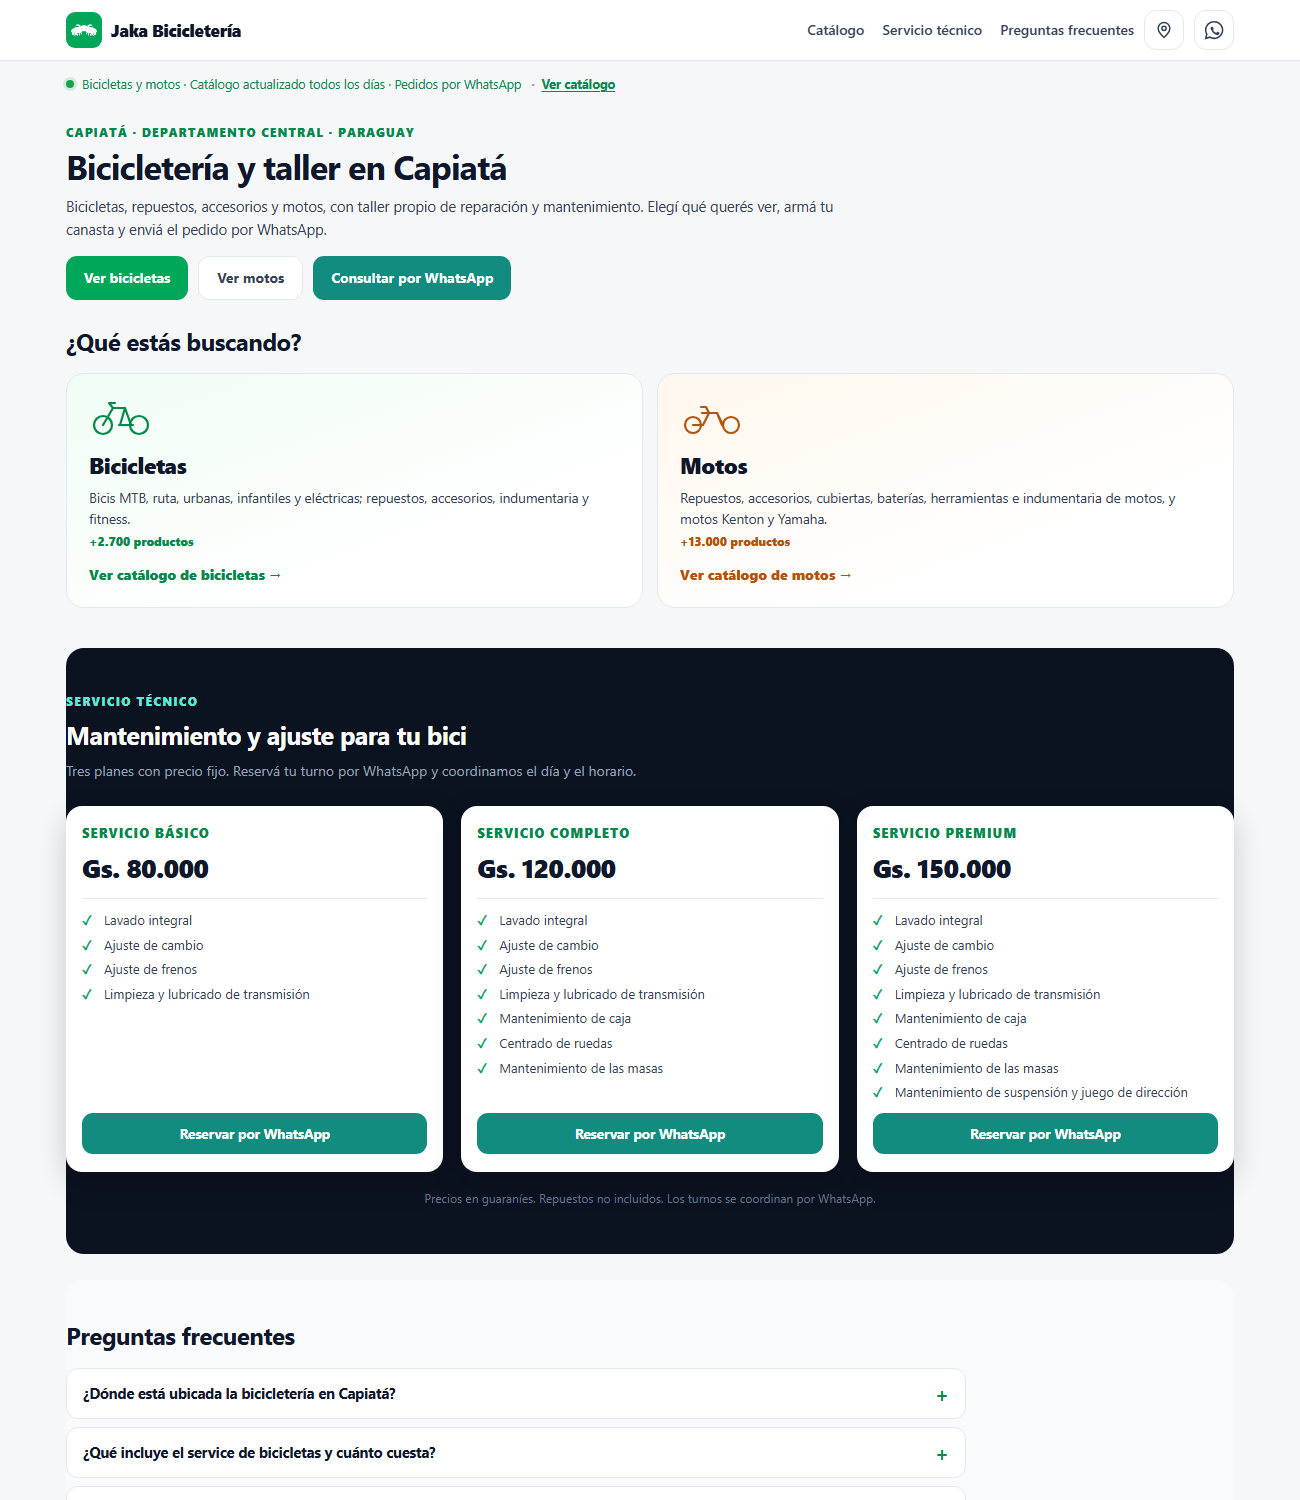
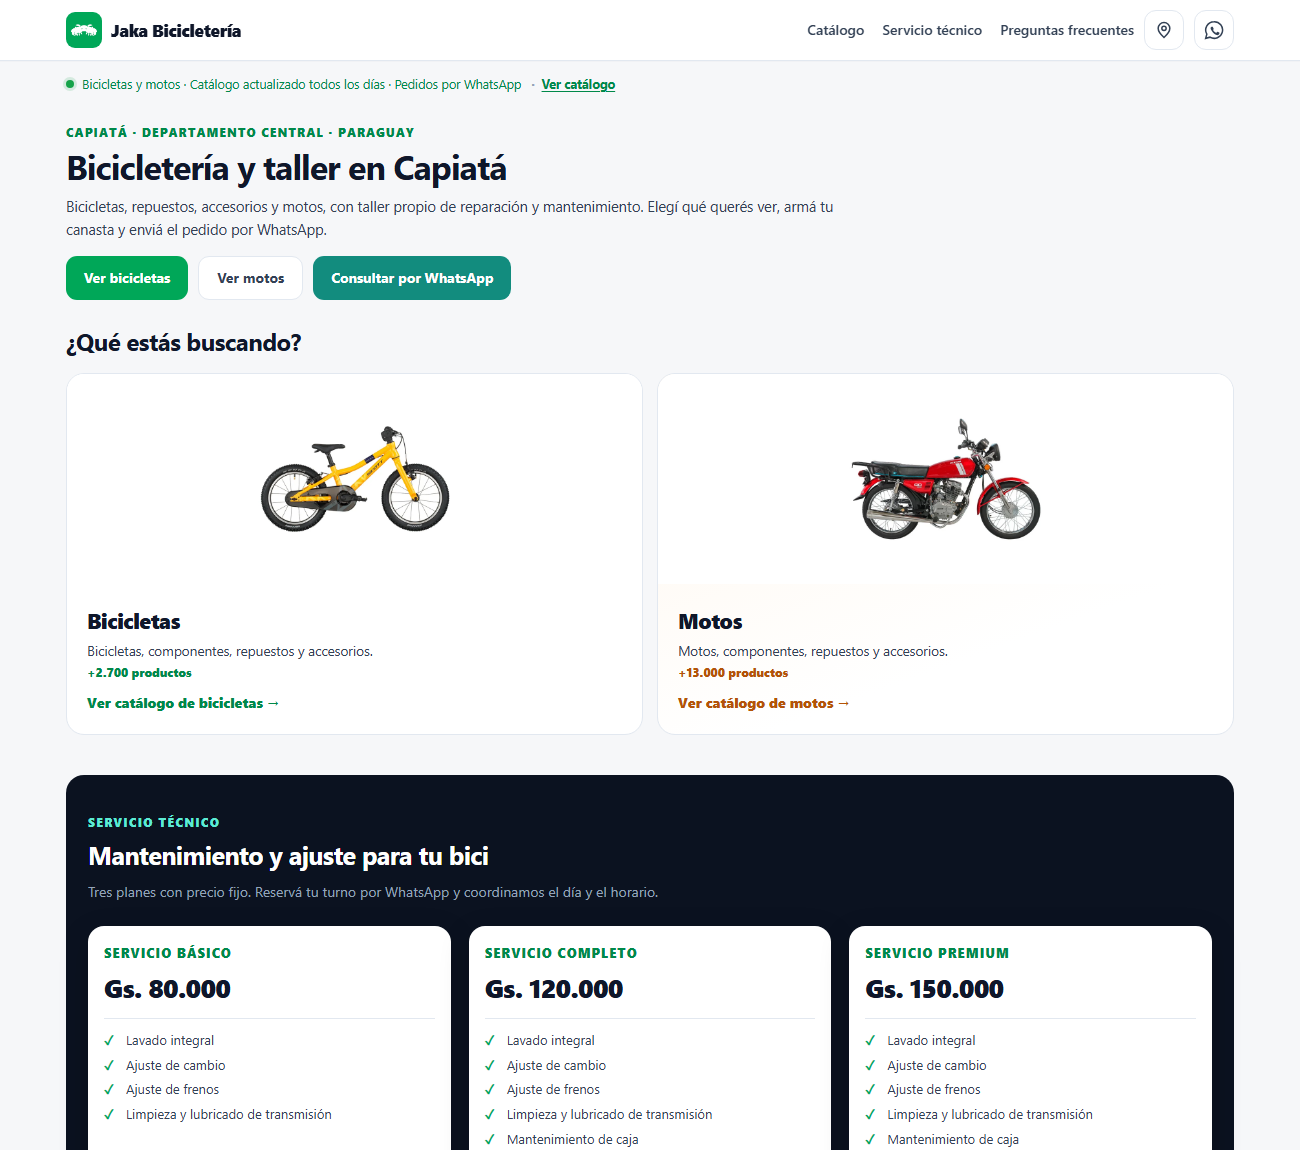
Landing: tarjetas con foto para Bicicletas y Motos

diff --git a/tienda/index.html b/tienda/index.html
@@ -263,24 +263,25 @@ src="https://www.facebook.com/tr?id=1521450706425502&ev=PageView&noscript=1"/></
   <section class="eleccion" aria-labelledby="eleccion-titulo">
     <h2 id="eleccion-titulo">¿Qué estás buscando?</h2>
     <div class="eleccion__grid">
-      <a class="eleccion__card eleccion__card--bici" href="tienda.html?seccion=bicis">
-        <span class="eleccion__icono" aria-hidden="true">
-          <svg viewBox="0 0 64 40" fill="none" stroke="currentColor" stroke-width="2.2" stroke-linecap="round" stroke-linejoin="round"><circle cx="14" cy="29" r="9"/><circle cx="50" cy="29" r="9"/><path d="M14 29 24 12h12l6 17M24 12l-4-5h6M36 12l-5 17M30 29h14"/></svg>
+      <a class="eleccion__card eleccion__card--foto eleccion__card--bici" href="tienda.html?seccion=bicis">
+        <img class="eleccion__foto" src="https://www.ciclovia.com.py/media/catalog/product/a/p/api-v1.1-file-public_files-pim-assets-24-5d-7c-5f-5f7c5d247cff234cfdd64799-images-d3-9f-63-6a-6a639fd37e7c49aa4b03e058-41011085U26NA_BICI_SCOTT_CONTRAIL_160_NARANJA_1b.jpg?quality=85&fit=bounds&height=600&width=600&canvas=600:600" alt="Bicicleta de montaña en Jaka Bicicletería, Capiatá" loading="lazy" width="900" height="600">
+        <span class="eleccion__velo" aria-hidden="true"></span>
+        <span class="eleccion__info">
+          <span class="eleccion__titulo">Bicicletas</span>
+          <span class="eleccion__texto">Bicicletas, componentes, repuestos y accesorios.</span>
+          <span class="eleccion__meta">+2.700 productos</span>
+          <span class="eleccion__cta">Ver catálogo de bicicletas →</span>
         </span>
-        <span class="eleccion__titulo">Bicicletas</span>
-        <span class="eleccion__texto">Bicis MTB, ruta, urbanas, infantiles y eléctricas; repuestos, accesorios, indumentaria y fitness.</span>
-        <span class="eleccion__meta">+2.700 productos</span>
-        <span class="eleccion__cta">Ver catálogo de bicicletas →</span>
       </a>
-
-      <a class="eleccion__card eleccion__card--moto" href="tienda.html?seccion=motos">
-        <span class="eleccion__icono" aria-hidden="true">
-          <svg viewBox="0 0 64 40" fill="none" stroke="currentColor" stroke-width="2.2" stroke-linecap="round" stroke-linejoin="round"><circle cx="13" cy="29" r="8"/><circle cx="51" cy="29" r="8"/><path d="M13 29h10l6-12h8l5 12M22 17h12M29 17l-3-6h-5M37 17l6 12"/></svg>
+      <a class="eleccion__card eleccion__card--foto eleccion__card--moto" href="tienda.html?seccion=motos">
+        <img class="eleccion__foto" src="https://www.chacomer.com.py/media/catalog/product/a/p/api-v1.1-file-public_files-pim-assets-24-5d-7c-5f-5f7c5d247cff234cfdd64799-images-ab-7f-8d-6a-6a8d7fab23218cb40b67c7b7-59012276ROFA_MOTO_KENTON_GO_125_1b.jpg?quality=85&fit=bounds&height=600&width=600&canvas=600:600" alt="Moto Kenton en Jaka Bicicletería, Capiatá" loading="lazy" width="900" height="600">
+        <span class="eleccion__velo" aria-hidden="true"></span>
+        <span class="eleccion__info">
+          <span class="eleccion__titulo">Motos</span>
+          <span class="eleccion__texto">Motos, componentes, repuestos y accesorios.</span>
+          <span class="eleccion__meta">+13.000 productos</span>
+          <span class="eleccion__cta">Ver catálogo de motos →</span>
         </span>
-        <span class="eleccion__titulo">Motos</span>
-        <span class="eleccion__texto">Repuestos, accesorios, cubiertas, baterías, herramientas e indumentaria de motos, y motos Kenton y Yamaha.</span>
-        <span class="eleccion__meta">+13.000 productos</span>
-        <span class="eleccion__cta">Ver catálogo de motos →</span>
       </a>
     </div>
   </section>

diff --git a/tienda/assets/estilos.css b/tienda/assets/estilos.css
@@ -278,6 +278,19 @@ h1{font-size:24px;letter-spacing:-.5px;margin:0 0 2px}
 @media (min-width:760px){.eleccion__grid{grid-template-columns:1fr 1fr}}
 .eleccion__card{display:flex;flex-direction:column;gap:5px;padding:22px;border-radius:18px;text-decoration:none;color:inherit;border:1px solid var(--linea);background:linear-gradient(160deg,#f0fdf4 0%,#ffffff 70%);transition:transform .15s,border-color .15s,box-shadow .15s}
 .eleccion__card:hover{transform:translateY(-2px);border-color:var(--verde);box-shadow:0 14px 30px rgba(0,167,88,.14)}
+/* Tarjetas con foto (como la referencia) */
+.eleccion__card--foto{display:flex;flex-direction:column;padding:0;min-height:0;border:1px solid var(--linea);background:#fff;overflow:hidden}
+.eleccion__card--foto:hover{transform:translateY(-2px);box-shadow:0 18px 34px rgba(2,6,23,.14)}
+.eleccion__foto{position:static;width:100%;height:210px;object-fit:contain;background:#fff;padding:8px}
+.eleccion__card--foto:hover .eleccion__foto{transform:none}
+.eleccion__velo{display:none}
+.eleccion__info{position:static;display:flex;flex-direction:column;gap:4px;padding:16px 20px 20px;margin-top:0;color:inherit}
+.eleccion__card--foto .eleccion__titulo{color:var(--tinta);font-size:21px}
+.eleccion__card--foto .eleccion__texto{color:var(--tinta-suave)}
+.eleccion__card--foto .eleccion__meta{color:var(--verde-oscuro)}
+.eleccion__card--foto .eleccion__cta{color:var(--verde-oscuro);margin-top:8px}
+.eleccion__card--foto.eleccion__card--moto .eleccion__meta,
+.eleccion__card--foto.eleccion__card--moto .eleccion__cta{color:#b45309}
 .eleccion__card--moto{background:linear-gradient(160deg,#fff7ed 0%,#ffffff 70%)}
 .eleccion__icono{color:var(--verde-oscuro);margin-bottom:4px}
 .eleccion__card--moto .eleccion__icono{color:#b45309}
